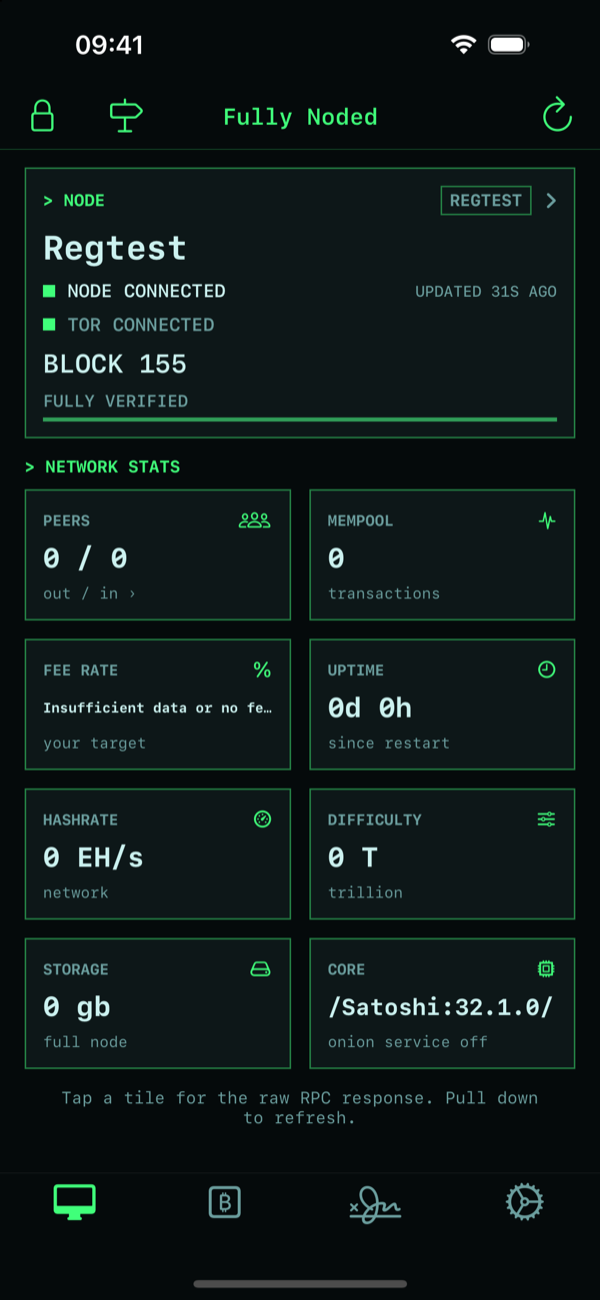
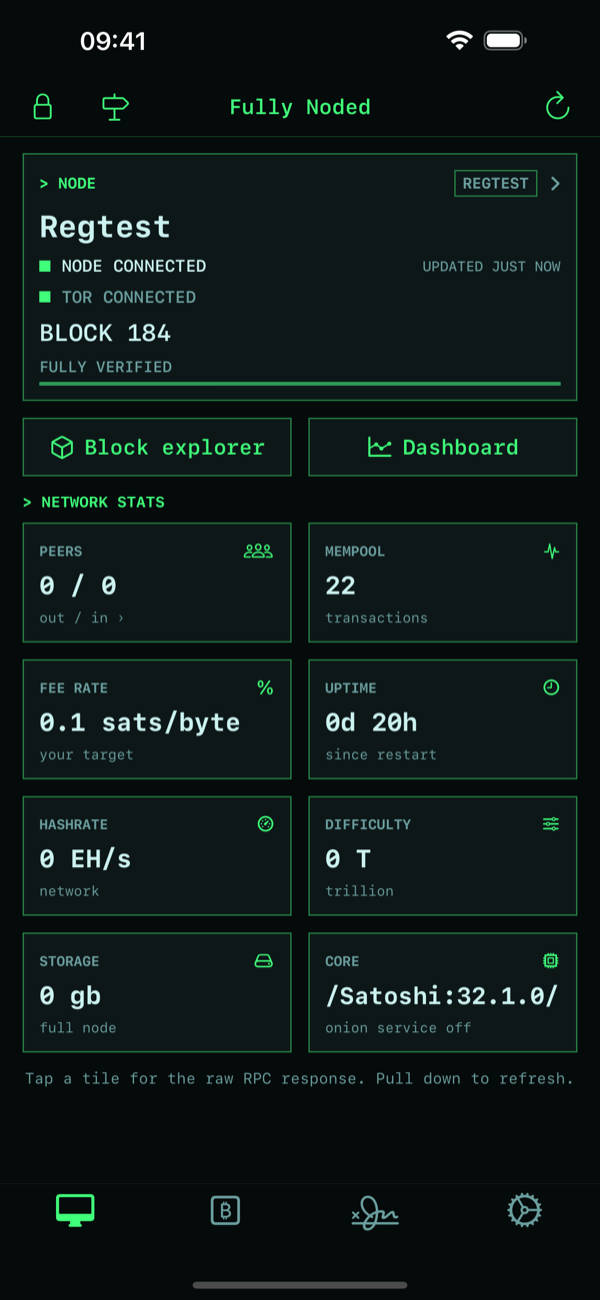
docs: images and docs

diff --git a/Readme.md b/Readme.md
@@ -32,11 +32,12 @@ screenshots: **[Docs](./Docs/README.md)**.
 
 * **Unit tests** check everything Fully Noded does with private keys (seed words, key derivation,
   encryption at rest, PSBT signing, silent payment keys) against the published BIP test vectors, plus
-  timelocked addresses and wallet recovery (from seed words, descriptors and wallet backups).
+  timelocked addresses, wallet recovery (from seed words, descriptors and wallet backups), the block
+  explorer's data and the wallet's privacy and fee checks.
   Pick the **FullyNodedTests** scheme and press ⌘U. No node needed.
 * **UI tests** drive the app in the simulator against a local regtest node: node setup, wallet creation
-  and recovery, sending, silent payment sends and payjoin between two simulators, on every Bitcoin Core /
-  Knots build you have installed.
+  and recovery, sending, silent payment sends, the block explorer and payjoin between two simulators, on
+  every Bitcoin Core / Knots build you have installed.
 
 How to run both, what they cover and how to add tests: [Docs/Testing.md](Docs/Testing.md).
 
@@ -57,6 +58,17 @@ How to run both, what they cover and how to add tests: [Docs/Testing.md](Docs/Te
 * **Output Descriptor Support.** You can import any descriptor into FN and it should work seamlessly. Multisig, miniscript, segwit, taproot and more.
 * **HWW Functionality.** FN Signers tab allows you to add BIP39 mnemonics and passphrases and stores the mnemonic double encrypted locally on your device. It signs transactions locally with no internet connection required.
 
+
+## Block explorer
+
+**See the chain through your own node.** Every block and transaction comes from your node, so nothing
+you look at reaches anyone else's server: a live strip of blocks, the block map, where a transaction's
+money goes, what kind of transaction it looks like, embedded data decoded, your own coins by block, and
+the chain's vitals. The verifier shows a transaction's flow and a privacy rating before you sign it.
+
+<img src="./Docs/Images/app-explorer.jpg" alt="Block explorer" width="300"/> <img src="./Docs/Images/app-explorer-tx.jpg" alt="A transaction" width="300"/>
+
+Guides: [Block explorer](./Docs/Block-Explorer.md), [Understanding your wallet](./Docs/Wallets/Wallet-Insights.md).
 
 ## Nostr Connect
 
